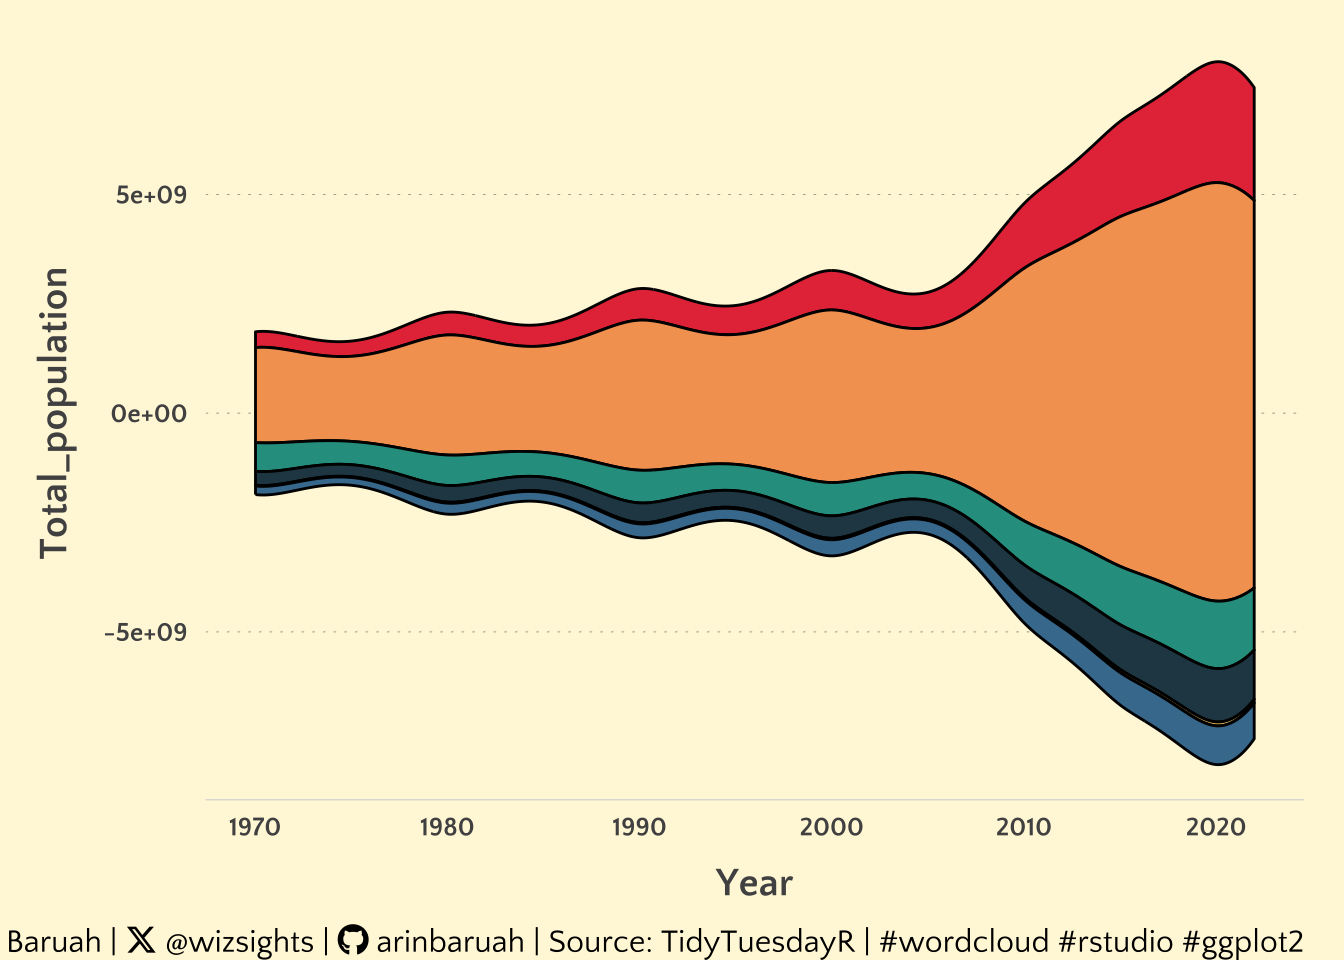
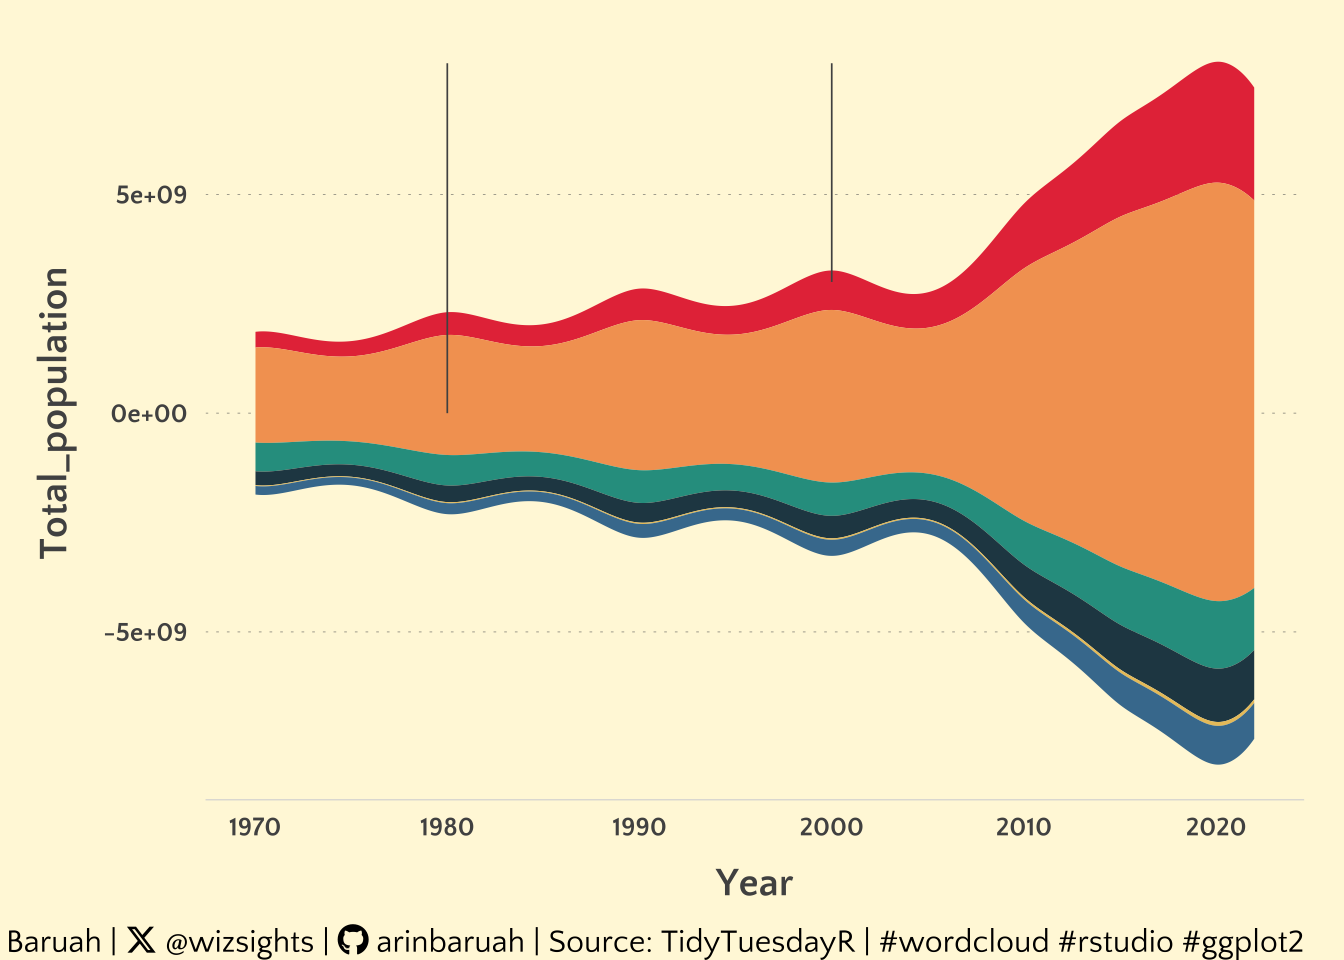
Label segment positions finalised

diff --git a/2025/Feb_viz.html b/2025/Feb_viz.html
@@ -226,30 +226,51 @@ dbl (13): Rank, 2022 Population, 2020 Population, 2015 Population, 2010 Popu...
 <section id="data-viz" class="level1">
 <h1>Data Viz</h1>
 <div class="cell">
-<div class="sourceCode cell-code" id="cb12"><pre class="sourceCode r code-with-copy"><code class="sourceCode r"><span id="cb12-1"><a href="#cb12-1" aria-hidden="true" tabindex="-1"></a>colors <span class="ot">&lt;-</span> <span class="fu">c</span>(<span class="st">"Africa"</span> <span class="ot">=</span> <span class="st">"#E63946"</span>,</span>
+<div class="sourceCode cell-code" id="cb12"><pre class="sourceCode r code-with-copy"><code class="sourceCode r"><span id="cb12-1"><a href="#cb12-1" aria-hidden="true" tabindex="-1"></a>continent_colors <span class="ot">&lt;-</span> <span class="fu">c</span>(<span class="st">"Africa"</span> <span class="ot">=</span> <span class="st">"#E63946"</span>,</span>
 <span id="cb12-2"><a href="#cb12-2" aria-hidden="true" tabindex="-1"></a>            <span class="st">"Asia"</span> <span class="ot">=</span> <span class="st">"#F4A261"</span> ,</span>
 <span id="cb12-3"><a href="#cb12-3" aria-hidden="true" tabindex="-1"></a>            <span class="st">"Europe"</span> <span class="ot">=</span> <span class="st">"#2A9D8F"</span> ,</span>
 <span id="cb12-4"><a href="#cb12-4" aria-hidden="true" tabindex="-1"></a>            <span class="st">"North America"</span> <span class="ot">=</span> <span class="st">"#264653"</span>,</span>
 <span id="cb12-5"><a href="#cb12-5" aria-hidden="true" tabindex="-1"></a>            <span class="st">"Oceania"</span> <span class="ot">=</span> <span class="st">"#E9C46A"</span> ,</span>
 <span id="cb12-6"><a href="#cb12-6" aria-hidden="true" tabindex="-1"></a>            <span class="st">"South America"</span> <span class="ot">=</span> <span class="st">"#457B9D"</span> )</span>
 <span id="cb12-7"><a href="#cb12-7" aria-hidden="true" tabindex="-1"></a></span>
-<span id="cb12-8"><a href="#cb12-8" aria-hidden="true" tabindex="-1"></a>pl <span class="ot">&lt;-</span> <span class="fu">ggplot</span>(pop_data_long_grouped, </span>
-<span id="cb12-9"><a href="#cb12-9" aria-hidden="true" tabindex="-1"></a>       <span class="fu">aes</span>(<span class="at">x =</span> Year, </span>
-<span id="cb12-10"><a href="#cb12-10" aria-hidden="true" tabindex="-1"></a>           <span class="at">y =</span> Total_population, </span>
-<span id="cb12-11"><a href="#cb12-11" aria-hidden="true" tabindex="-1"></a>           <span class="at">fill =</span> Continent, </span>
-<span id="cb12-12"><a href="#cb12-12" aria-hidden="true" tabindex="-1"></a>           <span class="at">group =</span> Continent,</span>
-<span id="cb12-13"><a href="#cb12-13" aria-hidden="true" tabindex="-1"></a>           )) <span class="sc">+</span></span>
-<span id="cb12-14"><a href="#cb12-14" aria-hidden="true" tabindex="-1"></a>  <span class="fu">geom_stream</span>(</span>
-<span id="cb12-15"><a href="#cb12-15" aria-hidden="true" tabindex="-1"></a>    <span class="at">type =</span> <span class="st">"mirror"</span>,</span>
-<span id="cb12-16"><a href="#cb12-16" aria-hidden="true" tabindex="-1"></a>    <span class="at">color =</span> <span class="st">"black"</span>,</span>
-<span id="cb12-17"><a href="#cb12-17" aria-hidden="true" tabindex="-1"></a>    <span class="at">bw =</span> <span class="fl">0.85</span>,</span>
-<span id="cb12-18"><a href="#cb12-18" aria-hidden="true" tabindex="-1"></a>    <span class="at">extra_span =</span> <span class="fl">0.2</span></span>
-<span id="cb12-19"><a href="#cb12-19" aria-hidden="true" tabindex="-1"></a>  ) <span class="sc">+</span> </span>
-<span id="cb12-20"><a href="#cb12-20" aria-hidden="true" tabindex="-1"></a>  <span class="fu">scale_fill_manual</span>(<span class="at">values =</span> colors) <span class="sc">+</span></span>
-<span id="cb12-21"><a href="#cb12-21" aria-hidden="true" tabindex="-1"></a>  <span class="fu">labs</span>(<span class="at">caption =</span> caption_text) <span class="sc">+</span></span>
-<span id="cb12-22"><a href="#cb12-22" aria-hidden="true" tabindex="-1"></a>  <span class="fu">theme</span>(<span class="at">plot.caption =</span> <span class="fu">element_markdown</span>())</span>
-<span id="cb12-23"><a href="#cb12-23" aria-hidden="true" tabindex="-1"></a></span>
-<span id="cb12-24"><a href="#cb12-24" aria-hidden="true" tabindex="-1"></a>pl</span></code><button title="Copy to Clipboard" class="code-copy-button"><i class="bi"></i></button></pre></div>
+<span id="cb12-8"><a href="#cb12-8" aria-hidden="true" tabindex="-1"></a>label_positions <span class="ot">&lt;-</span> <span class="fu">tibble</span>(</span>
+<span id="cb12-9"><a href="#cb12-9" aria-hidden="true" tabindex="-1"></a>  <span class="at">Continent =</span> <span class="fu">c</span>(<span class="st">"Africa"</span>, <span class="st">"Asia"</span>, <span class="st">"Europe"</span>, <span class="st">"North America"</span>, <span class="st">"Oceania"</span>,<span class="st">"South America"</span>),</span>
+<span id="cb12-10"><a href="#cb12-10" aria-hidden="true" tabindex="-1"></a>  <span class="co"># X positions for vertical alignment</span></span>
+<span id="cb12-11"><a href="#cb12-11" aria-hidden="true" tabindex="-1"></a>  <span class="at">x_position =</span> <span class="fu">c</span>(<span class="dv">2000</span>, <span class="dv">1980</span>, <span class="dv">2008</span>, <span class="dv">2011</span>, <span class="dv">2013</span>,<span class="dv">2015</span>),</span>
+<span id="cb12-12"><a href="#cb12-12" aria-hidden="true" tabindex="-1"></a>  <span class="co"># Label positions - extending beyond the streams</span></span>
+<span id="cb12-13"><a href="#cb12-13" aria-hidden="true" tabindex="-1"></a>  <span class="at">y_position =</span> <span class="fu">c</span>(<span class="dv">8</span><span class="sc">*</span><span class="dv">10</span><span class="sc">^</span><span class="dv">9</span>, <span class="dv">8</span><span class="sc">*</span><span class="dv">10</span><span class="sc">^</span><span class="dv">9</span>, <span class="dv">45000</span>, <span class="dv">60000</span>, <span class="sc">-</span><span class="dv">60000</span>,<span class="dv">50000</span>),  </span>
+<span id="cb12-14"><a href="#cb12-14" aria-hidden="true" tabindex="-1"></a>  <span class="co"># Stream connection points - where the lines should touch the streams</span></span>
+<span id="cb12-15"><a href="#cb12-15" aria-hidden="true" tabindex="-1"></a>  <span class="at">y_start =</span> <span class="fu">c</span>(<span class="dv">3</span><span class="sc">*</span><span class="dv">10</span><span class="sc">^</span><span class="dv">9</span>, <span class="dv">0</span>, <span class="dv">8000</span>, <span class="dv">8000</span>, <span class="sc">-</span><span class="dv">30000</span>,<span class="dv">10000</span>)    </span>
+<span id="cb12-16"><a href="#cb12-16" aria-hidden="true" tabindex="-1"></a>)</span>
+<span id="cb12-17"><a href="#cb12-17" aria-hidden="true" tabindex="-1"></a></span>
+<span id="cb12-18"><a href="#cb12-18" aria-hidden="true" tabindex="-1"></a>pl <span class="ot">&lt;-</span> <span class="fu">ggplot</span>(pop_data_long_grouped, </span>
+<span id="cb12-19"><a href="#cb12-19" aria-hidden="true" tabindex="-1"></a>       <span class="fu">aes</span>(<span class="at">x =</span> Year, </span>
+<span id="cb12-20"><a href="#cb12-20" aria-hidden="true" tabindex="-1"></a>           <span class="at">y =</span> Total_population, </span>
+<span id="cb12-21"><a href="#cb12-21" aria-hidden="true" tabindex="-1"></a>           <span class="at">fill =</span> Continent, </span>
+<span id="cb12-22"><a href="#cb12-22" aria-hidden="true" tabindex="-1"></a>           <span class="at">group =</span> Continent,</span>
+<span id="cb12-23"><a href="#cb12-23" aria-hidden="true" tabindex="-1"></a>           )) <span class="sc">+</span></span>
+<span id="cb12-24"><a href="#cb12-24" aria-hidden="true" tabindex="-1"></a>  <span class="fu">geom_stream</span>(</span>
+<span id="cb12-25"><a href="#cb12-25" aria-hidden="true" tabindex="-1"></a>    <span class="at">type =</span> <span class="st">"mirror"</span>,</span>
+<span id="cb12-26"><a href="#cb12-26" aria-hidden="true" tabindex="-1"></a>    <span class="at">bw =</span> <span class="fl">0.85</span>,</span>
+<span id="cb12-27"><a href="#cb12-27" aria-hidden="true" tabindex="-1"></a>    <span class="at">extra_span =</span> <span class="fl">0.2</span></span>
+<span id="cb12-28"><a href="#cb12-28" aria-hidden="true" tabindex="-1"></a>  ) <span class="sc">+</span> </span>
+<span id="cb12-29"><a href="#cb12-29" aria-hidden="true" tabindex="-1"></a>   <span class="fu">geom_segment</span>(</span>
+<span id="cb12-30"><a href="#cb12-30" aria-hidden="true" tabindex="-1"></a>    <span class="at">data =</span> label_positions,</span>
+<span id="cb12-31"><a href="#cb12-31" aria-hidden="true" tabindex="-1"></a>    <span class="fu">aes</span>(</span>
+<span id="cb12-32"><a href="#cb12-32" aria-hidden="true" tabindex="-1"></a>      <span class="at">x =</span> x_position,</span>
+<span id="cb12-33"><a href="#cb12-33" aria-hidden="true" tabindex="-1"></a>      <span class="at">y =</span> y_start,</span>
+<span id="cb12-34"><a href="#cb12-34" aria-hidden="true" tabindex="-1"></a>      <span class="at">xend =</span> x_position,</span>
+<span id="cb12-35"><a href="#cb12-35" aria-hidden="true" tabindex="-1"></a>      <span class="at">yend =</span> y_position</span>
+<span id="cb12-36"><a href="#cb12-36" aria-hidden="true" tabindex="-1"></a>    ),</span>
+<span id="cb12-37"><a href="#cb12-37" aria-hidden="true" tabindex="-1"></a>    <span class="at">color =</span> text_col,</span>
+<span id="cb12-38"><a href="#cb12-38" aria-hidden="true" tabindex="-1"></a>    <span class="at">linewidth =</span> <span class="fl">0.3</span>,</span>
+<span id="cb12-39"><a href="#cb12-39" aria-hidden="true" tabindex="-1"></a>    <span class="at">linetype =</span> <span class="st">"solid"</span></span>
+<span id="cb12-40"><a href="#cb12-40" aria-hidden="true" tabindex="-1"></a>  ) <span class="sc">+</span></span>
+<span id="cb12-41"><a href="#cb12-41" aria-hidden="true" tabindex="-1"></a>  <span class="fu">scale_fill_manual</span>(<span class="at">values =</span> continent_colors) <span class="sc">+</span></span>
+<span id="cb12-42"><a href="#cb12-42" aria-hidden="true" tabindex="-1"></a>  <span class="fu">labs</span>(<span class="at">caption =</span> caption_text) <span class="sc">+</span></span>
+<span id="cb12-43"><a href="#cb12-43" aria-hidden="true" tabindex="-1"></a>  <span class="fu">theme</span>(<span class="at">plot.caption =</span> <span class="fu">element_markdown</span>())</span>
+<span id="cb12-44"><a href="#cb12-44" aria-hidden="true" tabindex="-1"></a></span>
+<span id="cb12-45"><a href="#cb12-45" aria-hidden="true" tabindex="-1"></a>pl</span></code><button title="Copy to Clipboard" class="code-copy-button"><i class="bi"></i></button></pre></div>
 <div class="cell-output-display">
 <div>
 <figure class="figure">
